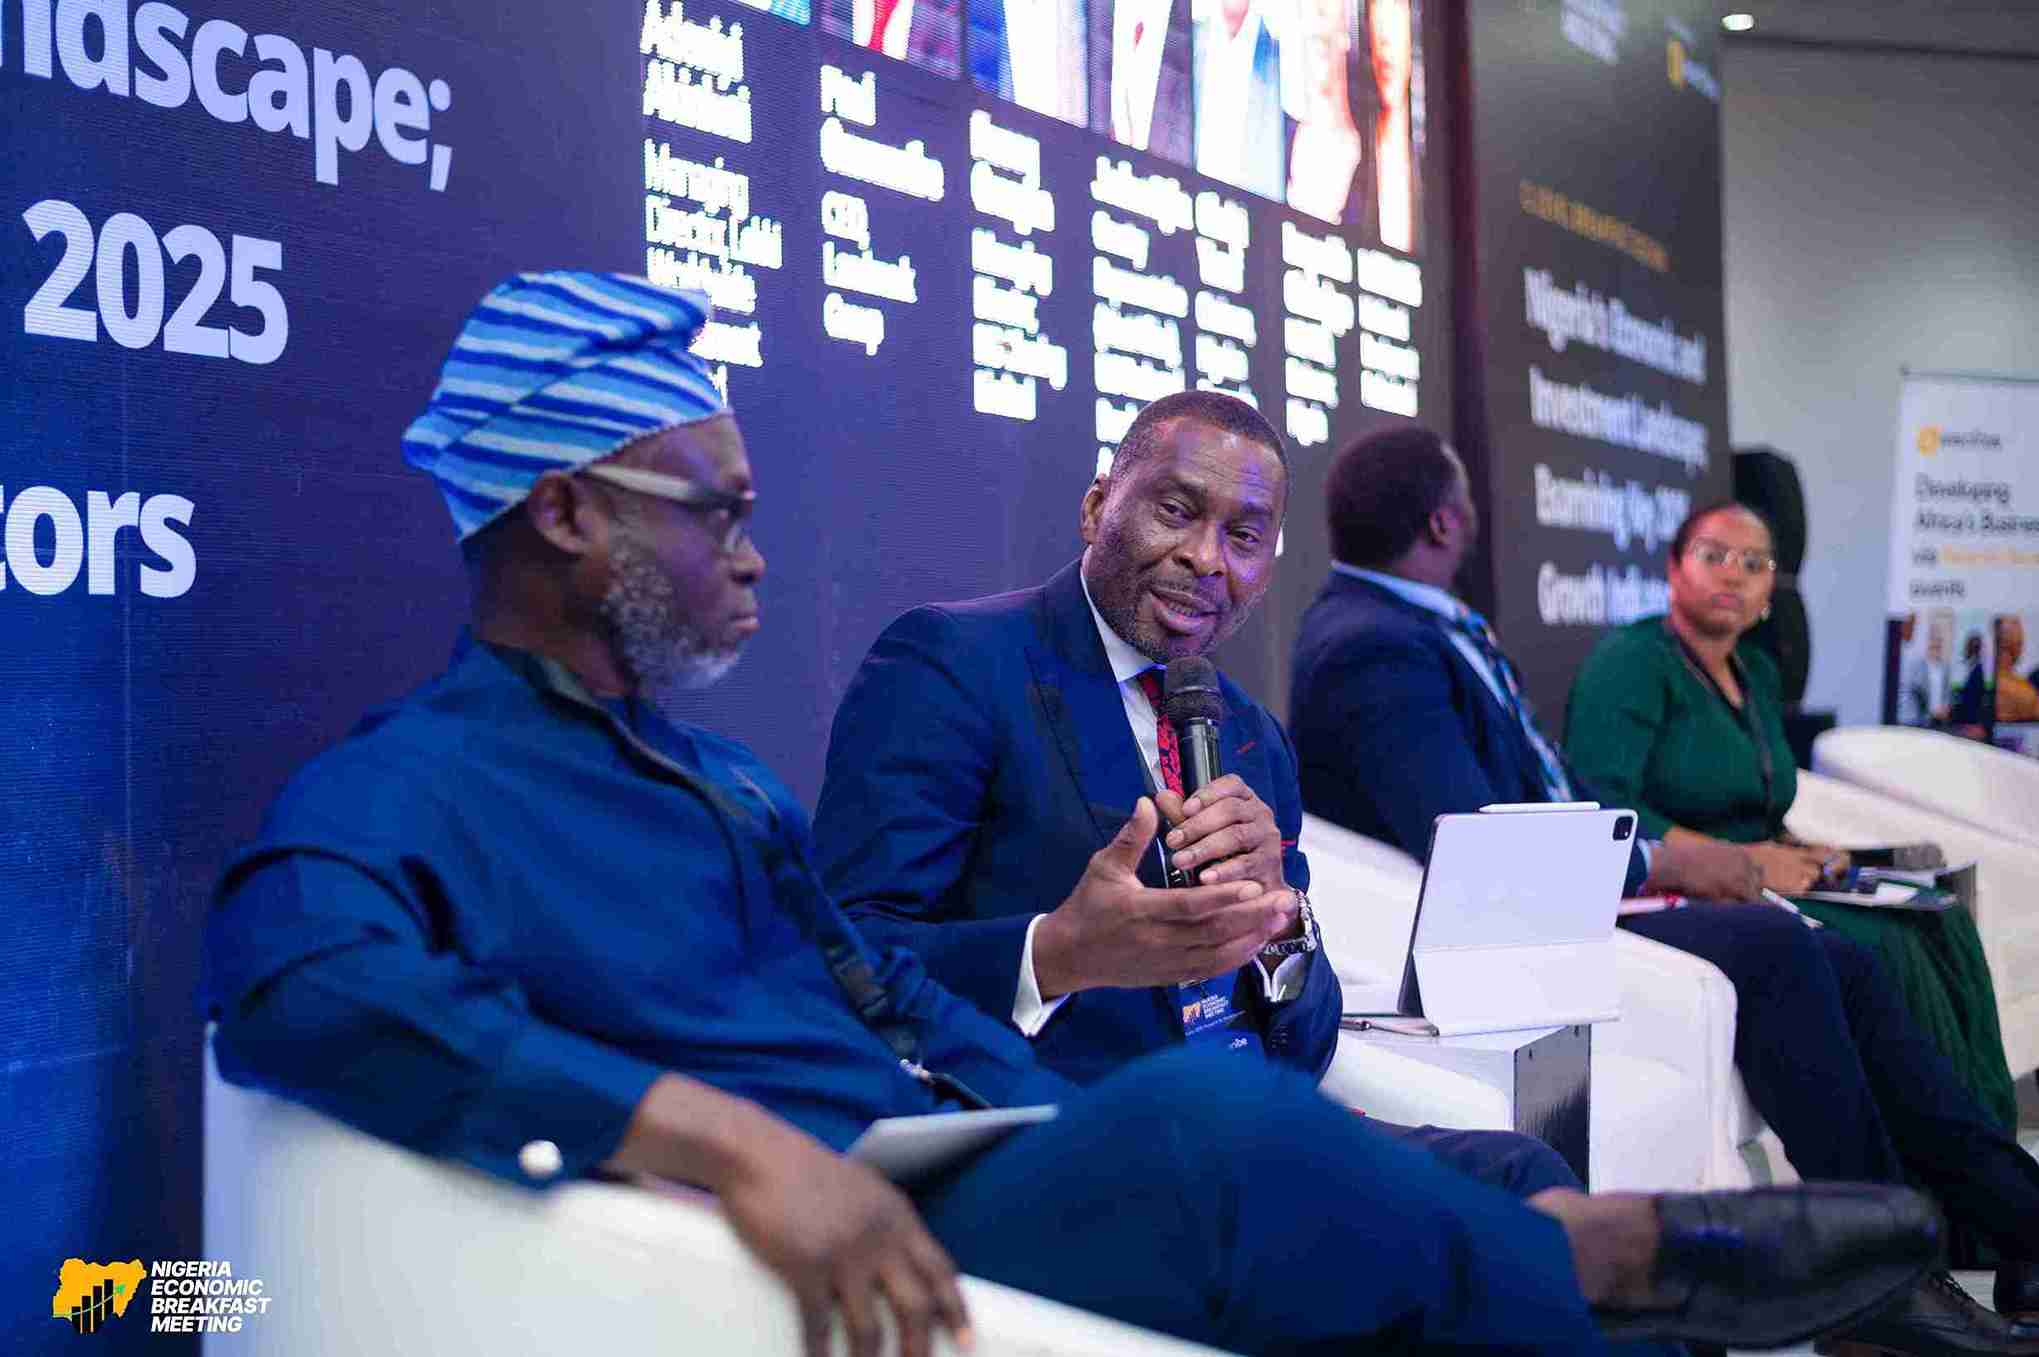
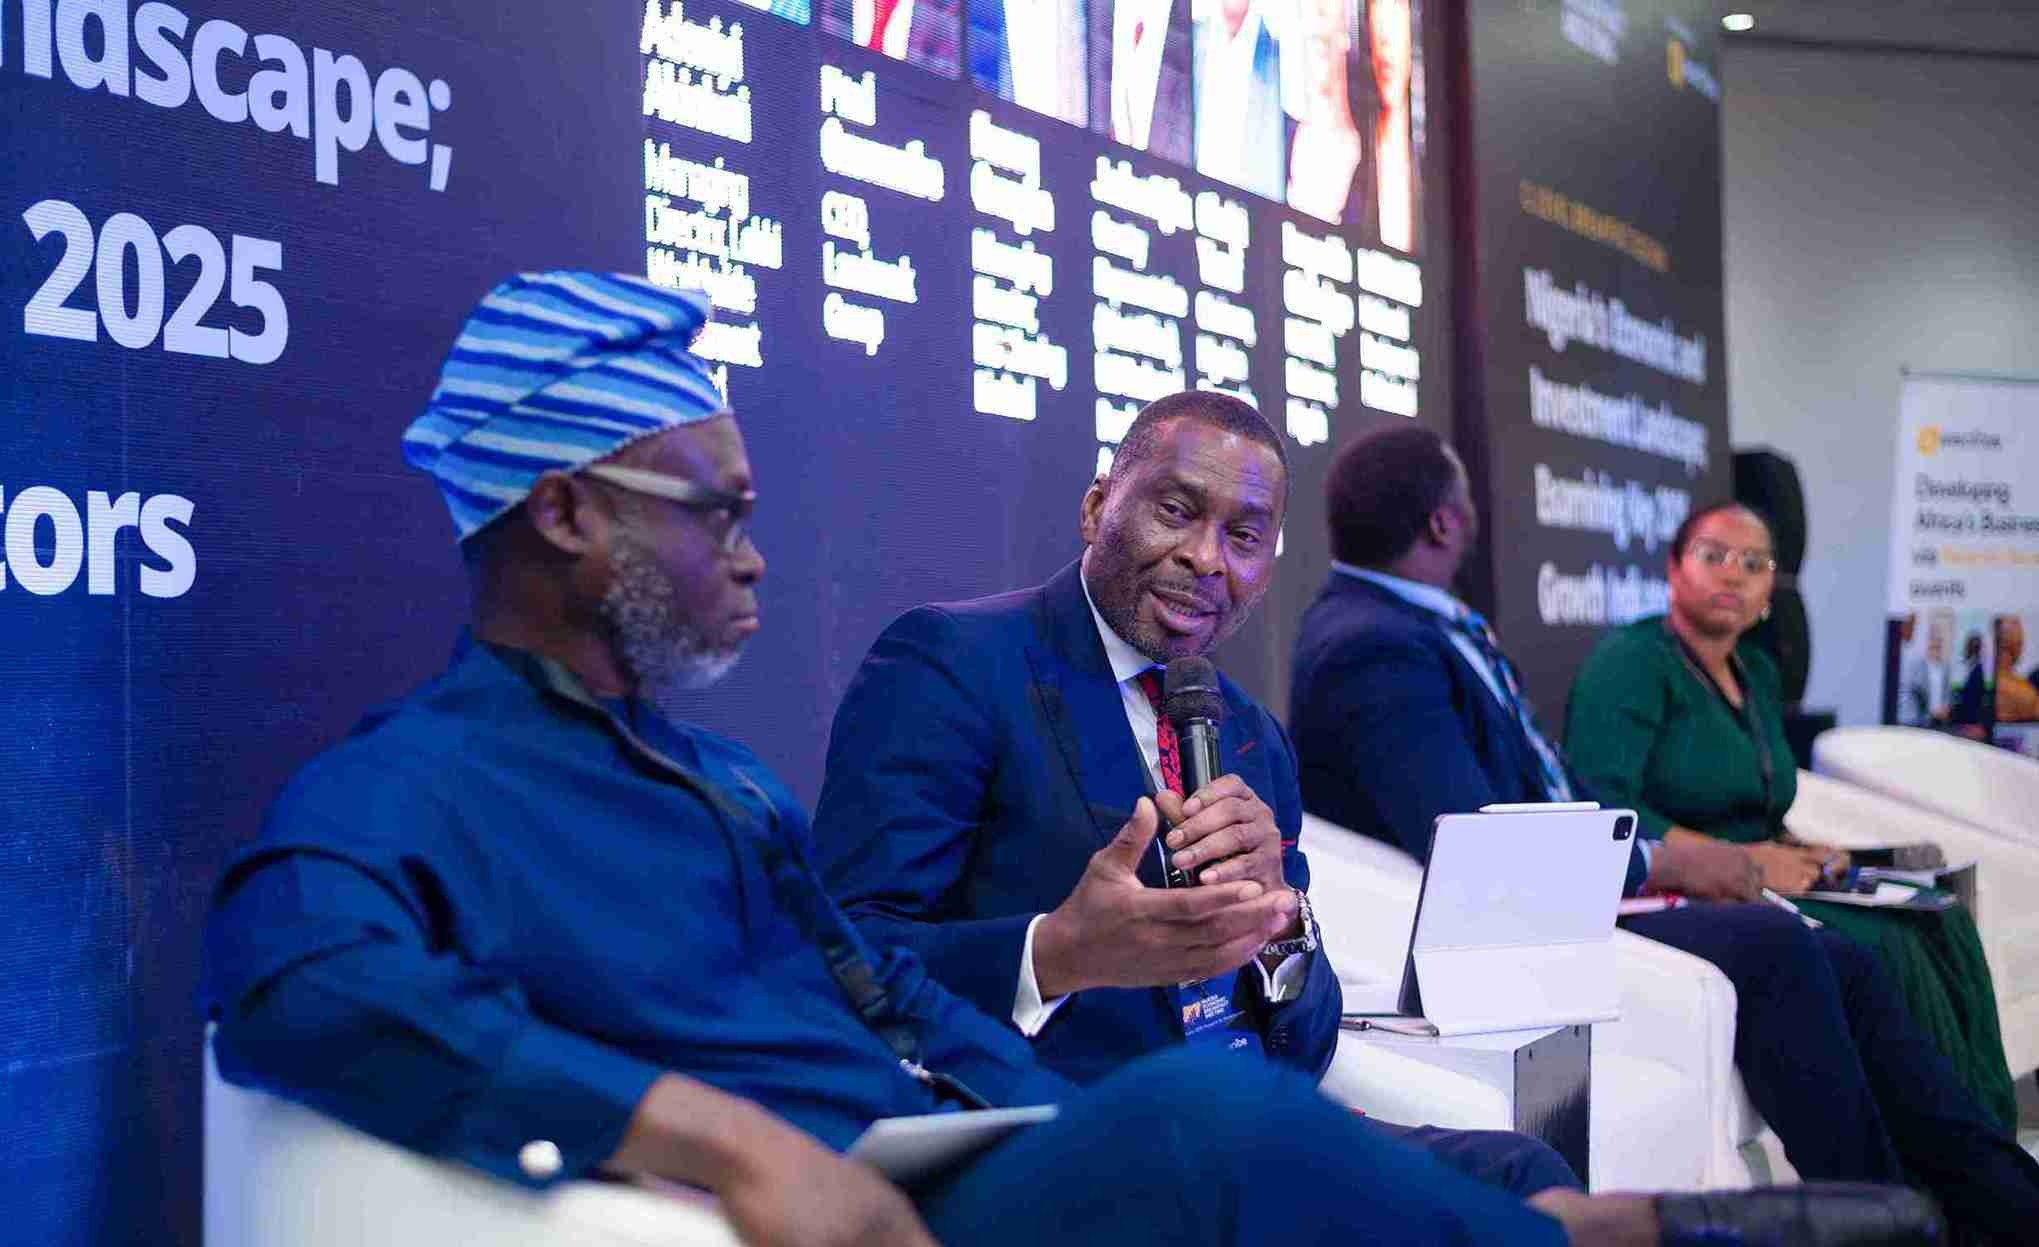
fixed corrections

diff --git a/index.html b/index.html
@@ -173,7 +173,7 @@
                   <span class="text-pry"
                     >Fourpoints by Sheraton, Victoria Island, Lagos</span
                   >
-                  | September 8th, 2026
+                  | September 8th, 2026 | 8AM - 12PM
                 </div>
                 <div class="hero-buttons buttons">
                   <a
